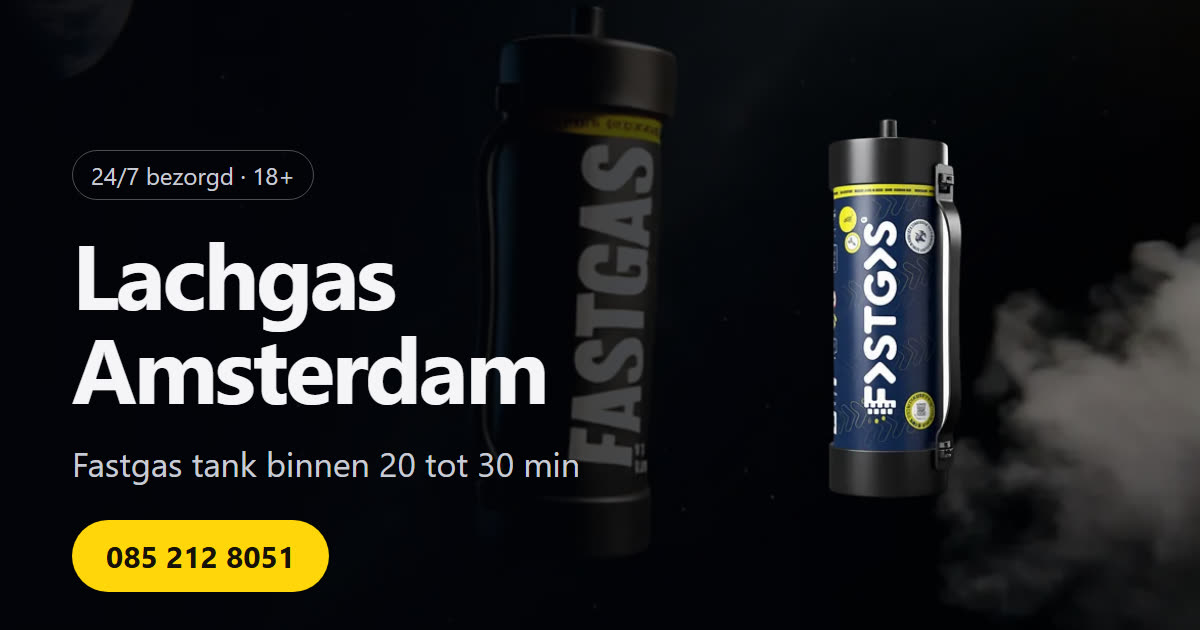
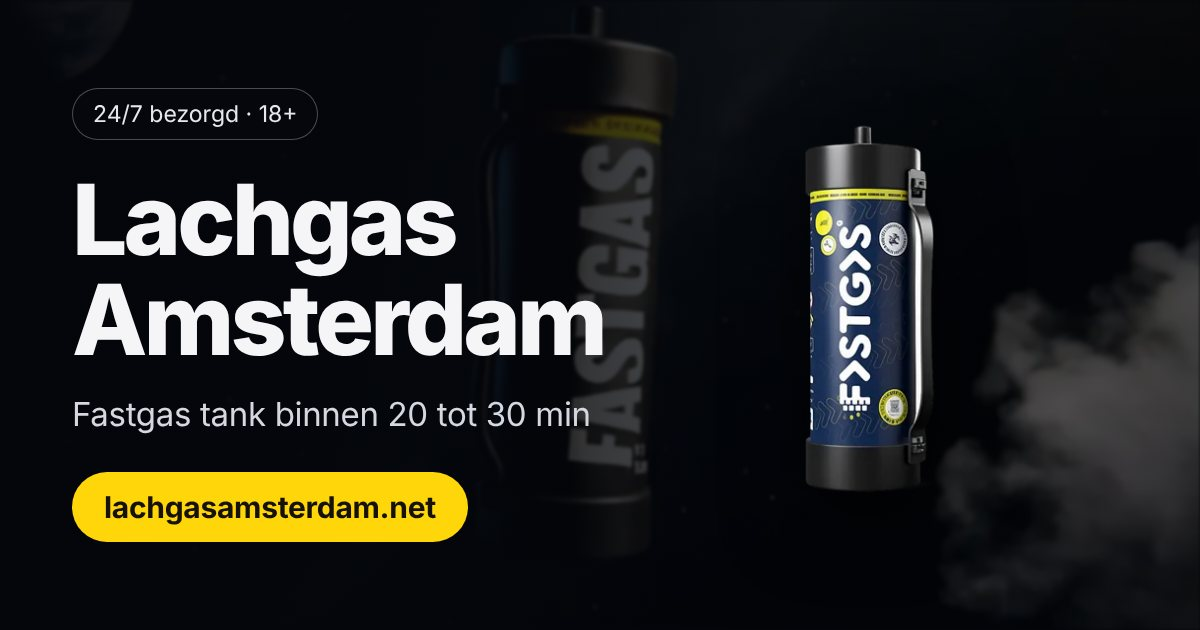
Nummers uit afbeelding en docs, indexering en merknaam aangescherpt
Telefoonnummers
- og.jpg (afbeelding bij gedeelde links) toonde nog een nummer; opnieuw
  gemaakt met de domeinnaam, via scripts/og.mjs (npm run og)
- nummers uit docs/seo-analyse verwijderd
- npm run seo faalt nu op elk nummer of elke tel:/wa.me-link in de build
  (tekst, attributen, JSON-LD, llms.txt, sitemap, manifest)

Indexering
- /404/ gaf status 200; postbuild laat alleen 404.html over
- overzichtspagina beschreef zichzelf in JSON-LD als de homepage
- favicon.ico was afgekapt; opnieuw gemaakt (16, 32, 48 px)
- llms.txt krijgt X-Robots-Tag: noindex
- seo-check controleert ook robots-meta, hreflang, robots.txt, 404,
  sitemapdatums en of elke pagina zichzelf beschrijft in JSON-LD
- site.verification: plek voor de Search Console- en Bing-code

Merknaam
- alternateName "Lachgasamsterdam" en "lachgasamsterdam.net" op WebSite
  en bedrijf; domeinnaam zichtbaar op home, over ons, footer, llms.txt
- titel contactpagina zonder dubbele merknaam

Overig
- dode CSS van de verwijderde bestelknoppen weg (1,8 KB per pagina)
- stappenlijst liep op 320 px uit beeld; H1 breekt niet meer in "20-30"
- npm start gebruikt serve.mjs, npm run check doet typecheck+build+seo

Claude-Session: https://claude.ai/code/session_01G9mGgcyCkZ15rNJvdmgaTz

diff --git a/app/globals.css b/app/globals.css
@@ -64,7 +64,6 @@ a:hover{text-decoration:none}
 .sheet-status>span:last-child{display:grid;gap:2px}
 .sheet-status strong{font-size:.95rem}
 .sheet-status small{font-size:.86rem;color:var(--ink2)}
-.sep{color:var(--mute);font-weight:400}
 .sh{margin:16px 0 4px;font-size:.78rem;font-weight:700;letter-spacing:.08em;text-transform:uppercase;color:var(--acc)}
 .mlist,.mtanks{list-style:none;margin:0;padding:0}
 .mlist{display:grid;gap:2px}
@@ -82,17 +81,11 @@ a:hover{text-decoration:none}
 .mtanks a:hover{border-color:rgba(255,214,10,.6)}
 .men{margin:22px 0 0;font-size:.9rem}
 .men a{color:var(--ink2)}
-.sheet-cta{flex:none;padding:12px 20px calc(14px + env(safe-area-inset-bottom));border-top:1px solid var(--line);background:rgba(4,6,11,.9)}
-.sheet-cta>*{width:100%;max-width:560px;margin-inline:auto}
-.sheet-cta .btn{display:flex}
-.sheet-cta p{margin:10px auto 0;text-align:center;font-size:.85rem;color:var(--mute)}
-.sheet-cta p .sep{margin:0 6px}
 html:has(.menu[open]){overflow:hidden}
 @media(max-width:399px){.mtxt{display:none}.menu summary{padding:0 6px}}
-.btn.hide-s{display:none}
-@media(min-width:900px){.links{display:flex}.menu{display:none}.btn.hide-s{display:inline-flex}}
+@media(min-width:900px){.links{display:flex}.menu{display:none}}
 
-/* knoppen: geel = bestellen (één kleur, één betekenis) */
+/* knoppen (inzoomscherm van de blueprint) */
 .btn{display:inline-flex;align-items:center;justify-content:center;gap:9px;min-height:48px;padding:0 24px;border-radius:999px;font:inherit;font-weight:650;text-decoration:none;border:1px solid transparent;transition:transform .15s,background-color .15s}
 .btn:active{transform:scale(.97)}
 .btn.pri{background:var(--acc);color:var(--acc-ink)}
@@ -100,7 +93,6 @@ html:has(.menu[open]){overflow:hidden}
 .btn.sec{background:rgba(255,255,255,.1);color:var(--ink);border-color:var(--line)}
 .btn.sec:hover{background:rgba(255,255,255,.18)}
 .btn.sm{min-height:44px;padding:0 18px}
-.cta{display:flex;flex-wrap:wrap;gap:12px;margin-top:26px}
 
 /* hero */
 .hero{padding:clamp(44px,9vw,110px) 0 clamp(32px,6vw,70px)}
@@ -108,6 +100,7 @@ html:has(.menu[open]){overflow:hidden}
 .kicker{display:inline-flex;align-items:center;gap:8px;margin:0 0 16px;padding:6px 14px;border-radius:999px;background:rgba(6,8,14,.72);border:1px solid var(--line);font-size:.85rem;color:var(--ink);letter-spacing:.02em}
 .dot{width:8px;height:8px;border-radius:50%;background:#34d399;box-shadow:0 0 0 4px rgba(52,211,153,.22)}
 h1{margin:0;font-size:clamp(2rem,10vw,4.6rem);line-height:1.04;letter-spacing:-.035em;font-weight:760;text-wrap:balance}
+.nb{white-space:nowrap}
 .hero.sub h1{font-size:clamp(2rem,5.6vw,3.4rem)}
 .lead{margin:18px 0 0;font-size:clamp(1.08rem,2.4vw,1.35rem);line-height:1.45;color:var(--ink2);max-width:46ch;text-wrap:pretty;text-shadow:0 1px 2px rgba(0,0,0,.6)}
 .chips{display:flex;flex-wrap:wrap;gap:8px;margin:26px 0 0;padding:0;list-style:none}
@@ -145,7 +138,7 @@ p{margin:0 0 14px;color:var(--ink2);text-wrap:pretty}
 .ticks li{position:relative;padding-left:30px;color:var(--ink2)}
 .ticks li::before{content:"";position:absolute;left:2px;top:.5em;width:12px;height:7px;border-left:2.5px solid var(--acc);border-bottom:2.5px solid var(--acc);transform:rotate(-45deg)}
 .steps{list-style:none;counter-reset:s;margin:0 0 18px;padding:0;display:grid;gap:14px}
-.steps li{counter-increment:s;display:grid;grid-template-columns:44px 1fr;column-gap:16px;padding:16px;border:1px solid var(--line);border-radius:14px;background:var(--card2)}
+.steps li{counter-increment:s;display:grid;grid-template-columns:44px minmax(0,1fr);column-gap:16px;overflow-wrap:anywhere;padding:16px;border:1px solid var(--line);border-radius:14px;background:var(--card2)}
 .steps li::before{content:counter(s);grid-row:span 2;width:40px;height:40px;border-radius:50%;background:var(--acc);color:var(--acc-ink);display:grid;place-content:center;font-weight:750}
 .steps strong{color:var(--ink);font-size:1.05rem}
 .steps span{color:var(--ink2)}
@@ -185,7 +178,6 @@ tr:last-child td{border-bottom:0}
 .places a:hover{border-color:rgba(255,214,10,.6)}
 .big{font-size:clamp(1.9rem,5vw,3rem);font-weight:760;letter-spacing:-.03em;line-height:1.08}
 .final{text-align:center}
-.final .cta{justify-content:center}
 .final p{margin-inline:auto;max-width:52ch}
 
 /* footer */
@@ -205,25 +197,10 @@ tr:last-child td{border-bottom:0}
 .fbot p{color:var(--mute);margin:0 0 8px}
 .fbot a{color:var(--ink2)}
 
-/* zwevende WhatsApp-knop (WhatsApp-groen met wit logo) */
-.wa-float{position:fixed;right:max(16px,env(safe-area-inset-right));bottom:calc(20px + env(safe-area-inset-bottom));z-index:45;display:grid;place-items:center;width:60px;height:60px;border-radius:50%;background:#25d366;color:#fff;box-shadow:0 8px 24px rgba(0,0,0,.5),0 0 0 3px rgba(255,255,255,.14);transition:transform .15s,box-shadow .15s}
-.wa-float:hover{transform:translateY(-2px) scale(1.06);box-shadow:0 12px 28px rgba(0,0,0,.55),0 0 0 3px rgba(255,255,255,.28)}
-.wa-float:active{transform:scale(.95)}
-.wa-float:focus-visible{outline:3px solid var(--acc);outline-offset:4px}
-@media(max-width:759px){.wa-float{display:none}}
-
-/* mobiele vaste knoppenbalk */
-.sticky{position:fixed;left:0;right:0;bottom:0;z-index:40;display:flex;gap:10px;padding:10px 16px calc(10px + env(safe-area-inset-bottom));background:rgba(6,8,14,.92);border-top:1px solid var(--line)}
-.sticky .btn{flex:1}
-.sticky .btn.pri{flex:2}
-@media(min-width:760px){.sticky{display:none}}
-@supports(animation-timeline:scroll()){@media(max-width:759px){.sticky{animation:bar-in linear both;animation-timeline:scroll(root block);animation-range:240px 420px}}}
-@keyframes bar-in{from{transform:translateY(110%)}to{transform:none}}
-
 @media(prefers-reduced-motion:reduce){html{scroll-behavior:auto}*{transition:none!important;animation:none!important}.bg video{display:none}}
 @media(prefers-reduced-transparency:reduce){.nav::before{backdrop-filter:none;-webkit-backdrop-filter:none;background:#06080e}}
 @media(prefers-contrast:more){:root{--line:rgba(255,255,255,.4);--ink2:#fff;--mute:#e0e3ea}}
-@media print{.bg,.nav,.sticky,.cta,.wa-float{display:none}body{background:#fff;color:#000}p,li{color:#000}}
+@media print{.bg,.nav{display:none}body{background:#fff;color:#000}p,li{color:#000}}
 
 /* blueprint + inzoomscherm (zonder JavaScript) */
 .bp{position:relative}

diff --git a/lib/schema.ts b/lib/schema.ts
@@ -27,14 +27,14 @@ export const business = {
   '@type': 'LocalBusiness',
   '@id': abs('/#business'),
   name: site.name,
-  alternateName: ['Lachgaskoerier Amsterdam', 'Lachgas Amsterdam bezorgdienst'],
+  alternateName: [...site.alternateNames, 'Lachgaskoerier Amsterdam', 'Lachgas Amsterdam bezorgdienst'],
   slogan: 'Fastgas tank bezorgd, 24/7, binnen 20 tot 30 minuten',
   knowsAbout: ['Lachgas (distikstofmonoxide, N2O)', 'Slagroomspuiten en slagroompatronen', 'Veilige opslag en transport van gastanks', 'Opiumwet en lachgas'],
   description:
     'Bezorgdienst voor de originele Fastgas Wegwerp Tank (2KG, 4KG en 10KG) in Amsterdam en omstreken. 24/7 bereikbaar, betalen bij aflevering met PIN, Tikkie of contant. Alleen 18+ en voor toegestaan gebruik.',
   url: abs('/'),
   logo: abs('/icon-512.png'),
-  image: abs('/og.jpg'),
+  image: abs(site.ogImage),
   currenciesAccepted: 'EUR',
   paymentAccepted: 'Cash, Debit Card, Tikkie',
   address: { '@type': 'PostalAddress', addressLocality: 'Amsterdam', addressRegion: 'Noord-Holland', addressCountry: 'NL' },
@@ -47,6 +47,8 @@ export const websiteNode = {
   '@id': abs('/#website'),
   url: abs('/'),
   name: site.name,
+  /* Google leidt de sitenaam in de zoekresultaten af van name en alternateName op de homepage. */
+  alternateName: site.alternateNames,
   inLanguage: 'nl-NL',
   publisher: { '@id': abs('/#business') },
 };
@@ -64,8 +66,11 @@ export function crumbs(items: { name: string; path: string }[]) {
   };
 }
 
-export function graph(page: Page | null, trail: { name: string; path: string }[], faq?: Faq[], home?: string) {
-  const path = page ? `/${page.slug}/` : '/';
+/* `page` is null voor pagina's buiten lib/content (home, overzicht): pad en naam komen dan uit het laatste kruimel,
+   `desc` is de omschrijving van die pagina. */
+export function graph(page: Page | null, trail: { name: string; path: string }[], faq?: Faq[], desc?: string) {
+  const last = trail[trail.length - 1];
+  const path = page ? `/${page.slug}/` : last.path;
   const en = page?.lang === 'en';
   const updated = page ? (page.updated ?? site.contentDate) : site.lastmod;
   const published = page?.published ?? site.published;
@@ -75,11 +80,11 @@ export function graph(page: Page | null, trail: { name: string; path: string }[]
     '@type': webType,
     '@id': abs(path) + '#webpage',
     url: abs(path),
-    name: page ? page.h1 : site.name,
-    description: page ? page.desc : (home ?? undefined),
+    name: page ? page.h1 : path === '/' ? site.name : last.name,
+    description: page ? page.desc : desc,
     inLanguage: en ? 'en' : 'nl-NL',
     isPartOf: { '@id': abs('/#website') },
-    primaryImageOfPage: { '@type': 'ImageObject', url: abs(page?.img?.src ?? '/og.jpg') },
+    primaryImageOfPage: { '@type': 'ImageObject', url: abs(page?.img?.src ?? site.ogImage) },
     about: { '@id': abs('/#business') },
     ...(webType === 'ContactPage' ? { mainEntity: { '@id': abs('/#business') } } : {}),
     datePublished: published,
@@ -141,7 +146,7 @@ export function graph(page: Page | null, trail: { name: string; path: string }[]
       headline: page.h1,
       description: page.desc,
       inLanguage: en ? 'en' : 'nl-NL',
-      image: abs(page.img?.src ?? '/og.jpg'),
+      image: abs(page.img?.src ?? site.ogImage),
       dateModified: updated,
       datePublished: published,
       author: { '@id': abs('/#business') },

diff --git a/app/page.tsx b/app/page.tsx
@@ -15,7 +15,7 @@ export const metadata: Metadata = pageMeta({
 });
 
 const faq: Faq[] = [
-  { q: 'Wat is Lachgas Amsterdam?', a: 'Lachgas Amsterdam is een bezorgdienst voor de originele Fastgas Wegwerp Tank (2KG, 4KG en 10KG) in Amsterdam en omstreken. Je bestelt via WhatsApp, wij bevestigen prijs en tijd en je betaalt bij aflevering. We leveren alleen aan 18+ en alleen voor toegestaan gebruik. Lees meer [over ons](/over-ons/).' },
+  { q: 'Wat is Lachgas Amsterdam?', a: `Lachgas Amsterdam, online te vinden op ${site.domain}, is een bezorgdienst voor de originele Fastgas Wegwerp Tank (2KG, 4KG en 10KG) in Amsterdam en omstreken. Je bestelt via WhatsApp, wij bevestigen prijs en tijd en je betaalt bij aflevering. We leveren alleen aan 18+ en alleen voor toegestaan gebruik. Lees meer [over ons](/over-ons/).` },
   { q: 'Waar kan ik lachgas in Amsterdam bestellen?', a: 'Bij ons, via WhatsApp, voor levering in alle stadsdelen van Amsterdam en de regio. Er is geen winkel of afhaalpunt: de koerier komt naar je toe. Hoe je bestelt staat op [lachgas bestellen in Amsterdam](/lachgas-bestellen-amsterdam/); op [Amsterdam per stadsdeel](/lachgas-amsterdam/) staan de stadsdelen en de verwachte levertijd.' },
   { q: 'Hoe snel bezorgen jullie lachgas in Amsterdam?', a: 'Gemiddeld staat onze koerier binnen 20 tot 30 minuten voor de deur, dag en nacht. Buiten Amsterdam hoor je op de pagina van je plaats wat de verwachte tijd is. Bij je bestelling bevestigen we altijd de aankomsttijd.' },
   { q: 'Kan ik bij aflevering betalen?', a: 'Ja. Je betaalt de koerier bij aflevering met PIN, Tikkie of contant. Vooraf betalen of een account aanmaken is niet nodig, en de totaalprijs hoor je al voordat de koerier vertrekt.' },
@@ -46,7 +46,7 @@ export default function Home() {
           <div className="row two">
             <div>
           <p className="kicker"><span className="dot" aria-hidden="true" />De lachgaskoerier van Amsterdam</p>
-          <h1>Lachgas Amsterdam.<br />Binnen {site.etaShort.replace(' ', '\u00a0')}.</h1>
+          <h1>Lachgas Amsterdam.<br />Binnen <span className="nb">{site.etaShort}.</span></h1>
           <p className="lead">
             De Fastgas Wegwerp Tank, verzegeld en 24/7 bezorgd in Amsterdam en omstreken. Bestel via WhatsApp en betaal bij aflevering.
           </p>
@@ -66,7 +66,7 @@ export default function Home() {
         <section className="panel narrow" aria-labelledby="intro-h">
           <h2 id="intro-h">Lachgas Amsterdam: bestellen en laten bezorgen</h2>
           <p>
-            <Rich text="**Lachgas Amsterdam** is een bezorgdienst voor één product: de originele Fastgas Wegwerp Tank. Je bestelt via WhatsApp, wij bevestigen prijs en aankomsttijd, en de koerier brengt de verzegelde tank naar je adres in Amsterdam of de regio. Je betaalt pas bij aflevering." />
+            <Rich text={`**Lachgas Amsterdam** (${site.domain}) is een bezorgdienst voor één product: de originele Fastgas Wegwerp Tank. Je bestelt via WhatsApp, wij bevestigen prijs en aankomsttijd, en de koerier brengt de verzegelde tank naar je adres in Amsterdam of de regio. Je betaalt pas bij aflevering.`} />
           </p>
           <h3>Lachgas Amsterdam in het kort</h3>
           <ul className="ticks">

diff --git a/lib/content/services.ts b/lib/content/services.ts
@@ -66,7 +66,7 @@ export const services: Page[] = [
     related: ['lachgas-bestellen-amsterdam', 'lachgas-tanks', 'lachgas-prijs', 'bestellen', 'is-lachgas-verboden', 'fastgas'],
   },
   {
-    slug: 'lachgas-bestellen-amsterdam', group: 'service', kind: 'service', nav: 'Lachgas bestellen Amsterdam', parent: 'home', updated: '2026-11-13',
+    slug: 'lachgas-bestellen-amsterdam', group: 'service', kind: 'service', nav: 'Lachgas bestellen Amsterdam', parent: 'home', updated: '2026-11-14',
     title: 'Lachgas bestellen in Amsterdam, 24/7',
     desc: 'Lachgas bestellen in Amsterdam: stuur een WhatsApp, kies 2KG, 4KG of 10KG en betaal bij aflevering. 24/7 bezorgd binnen 20 tot 30 minuten.',
     h1: 'Lachgas bestellen in Amsterdam', kicker: 'Bestellen zonder account',
@@ -108,8 +108,8 @@ export const services: Page[] = [
       { t: 'h2', x: 'Wat gebeurt er na je bericht?' },
       { t: 'p', x: 'Wij reageren met de totaalprijs en de verwachte aankomsttijd. Pas als jij akkoord bent, vertrekt de koerier. Onderweg kan hij je bellen of appen als er iets onduidelijk is aan het adres.' },
       { t: 'p', x: 'Bij de deur controleert hij op verzoek je legitimatie, overhandigt hij de verzegelde tank en neemt hij de betaling aan. Hoe dat in zijn werk gaat lees je bij [de lachgaskoerier](/lachgas-koerier/).' },
-      { t: 'h2', x: 'Lachgas bestellen via één nummer' },
-      { t: 'p', x: 'Bestellen gaat uitsluitend via WhatsApp. We reageren dag en nacht. Het is altijd dezelfde procedure: je geeft adres, formaat en gebruik door en je hoort prijs en aankomsttijd. Alle contactmogelijkheden staan op de [contactpagina](/contact/).' },
+      { t: 'h2', x: 'Lachgas bestellen: één vaste werkwijze' },
+      { t: 'p', x: 'Bestellen gaat uitsluitend via WhatsApp. We reageren dag en nacht. Het is altijd dezelfde procedure: je geeft adres, formaat en gebruik door en je hoort prijs en aankomsttijd. Meer over hoe je ons bereikt staat op de [contactpagina](/contact/).' },
       { t: 'h2', x: 'Zakelijk bestellen in Amsterdam' },
       { t: 'p', x: 'Restaurants, bars en cateraars bestellen op dezelfde manier, met een vast ontvangstpunt en eventueel een terugkerende levering. Meer daarover op [lachgas voor horeca](/lachgas-horeca/). Voor bezorging tijdens kantooruren is er [overdag bestellen](/overdag-bestellen/); buiten kantooruren kijk je bij [nachtlevering](/lachgas-nachtlevering/).' },
       { t: 'h2', x: 'Welk formaat kies je bij je eerste bestelling?' },

diff --git a/lib/content/info.ts b/lib/content/info.ts
@@ -570,14 +570,14 @@ export const info: Page[] = [
     related: ['bestellen', 'lachgas-informatie', 'bezorggebied', 'contact', 'lachgas-tanks', 'is-lachgas-verboden'],
   },
   {
-    slug: 'over-ons', group: 'hub', kind: 'article', nav: 'Over ons', parent: 'home', updated: '2026-11-13',
+    slug: 'over-ons', group: 'hub', kind: 'article', nav: 'Over ons', parent: 'home', updated: '2026-11-14',
     title: 'Over Lachgas Amsterdam: onze werkwijze',
     desc: 'Over Lachgas Amsterdam: een bezorgdienst voor de originele Fastgas Wegwerp Tank in Amsterdam en regio. Zo werken we en dit zijn onze regels.',
     h1: 'Over Lachgas Amsterdam', kicker: 'Wie we zijn',
     lead: 'Lachgas Amsterdam is een bezorgdienst voor de originele Fastgas Wegwerp Tank. We werken in Amsterdam en een groot deel van de regio, met duidelijke afspraken over leeftijd en gebruik.',
     blocks: [
       { t: 'h2', x: 'Wie is Lachgas Amsterdam?' },
-      { t: 'p', x: '[Lachgas Amsterdam](/) is een bezorgdienst, geen winkel. Je bestelt via WhatsApp en onze koerier brengt de tank naar je adres. We leveren de [Fastgas Wegwerp Tank](/lachgas-tanks/) in 2KG, 4KG en 10KG, verzegeld en met een label.' },
+      { t: 'p', x: '[Lachgas Amsterdam](/) is een bezorgdienst, geen winkel. Onze website is lachgasamsterdam.net. Je bestelt via WhatsApp en onze koerier brengt de tank naar je adres. We leveren de [Fastgas Wegwerp Tank](/lachgas-tanks/) in 2KG, 4KG en 10KG, verzegeld en met een label.' },
       { t: 'p', x: 'We zijn dag en nacht bereikbaar en bezorgen in alle stadsdelen van [Amsterdam](/lachgas-amsterdam/) en in een groot deel van de regio. Over het product zelf lees je meer op [Fastgas uitgelegd](/fastgas/).' },
       { t: 'h2', x: 'Onze uitgangspunten' },
       { t: 'ul', x: [

diff --git a/lib/site.ts b/lib/site.ts
@@ -4,8 +4,16 @@ export const site = {
   brand: 'Fastgas',
   url: 'https://www.lachgasamsterdam.net',
   host: 'www.lachgasamsterdam.net',
+  /** domeinnaam zoals bezoekers hem intypen; staat zichtbaar op home, over ons, footer en deel-afbeelding */
+  domain: 'lachgasamsterdam.net',
+  /** schrijfwijzen van de merknaam waarop mensen zoeken (schema.org alternateName van WebSite en bedrijf) */
+  alternateNames: ['Lachgasamsterdam', 'lachgasamsterdam.net'],
+  /** deel-afbeelding (Open Graph, schema.org); opnieuw maken met `npm run og` */
+  ogImage: '/og.jpg',
+  /** verificatiecodes van Search Console en Bing Webmaster Tools (alleen de code uit de meta-tag); leeg = geen tag */
+  verification: { google: '', bing: '' },
   /** datum van de site als geheel (home, overzicht, sitemap-fallback) */
-  lastmod: '2026-11-13',
+  lastmod: '2026-11-14',
   /** eerste publicatie van de site */
   published: '2026-10-29',
   /** fallback 'bijgewerkt'-datum voor subpagina's zonder eigen `updated` */

diff --git a/lib/content/hubs.ts b/lib/content/hubs.ts
@@ -128,8 +128,8 @@ export const hubs: Page[] = [
     related: ['lachgas-amsterdam', 'lachgas-in-de-buurt', 'lachgas-bezorgen', 'bestellen', 'lachgas-24-7', 'contact'],
   },
   {
-    slug: 'contact', group: 'hub', nav: 'Contact', parent: 'home', updated: '2026-11-13',
-    title: 'Contact: WhatsApp Lachgas Amsterdam',
+    slug: 'contact', group: 'hub', nav: 'Contact', parent: 'home', absolute: true, updated: '2026-11-14',
+    title: 'Contact met Lachgas Amsterdam: dag en nacht bereikbaar',
     desc: 'Contact met Lachgas Amsterdam: stuur ons een WhatsApp-bericht met je vraag of bestelling. Dag en nacht bereikbaar, ook in het weekend en op feestdagen.',
     h1: 'Contact met Lachgas Amsterdam', kicker: 'Dag en nacht bereikbaar',
     lead: 'Bestellen of een vraag? Stuur Lachgas Amsterdam een WhatsApp-bericht. We reageren dag en nacht.',

diff --git a/lib/meta.ts b/lib/meta.ts
@@ -1,7 +1,7 @@
 import type { Metadata } from 'next';
 import { site } from './site';
 
-const og = [{ url: '/og.jpg', width: 1200, height: 630, alt: 'Lachgas Amsterdam: Fastgas Wegwerp Tank bezorgd, 24/7' }];
+const og = [{ url: site.ogImage, width: 1200, height: 630, alt: 'Lachgas Amsterdam: Fastgas Wegwerp Tank bezorgd, 24/7' }];
 
 type Opts = {
   title: string;
@@ -34,7 +34,7 @@ export function pageMeta(opts: Opts): Metadata {
       images: og,
       ...(opts.article ? { modifiedTime: opts.modified ?? site.lastmod } : {}),
     },
-    twitter: { card: 'summary_large_image', title: full, description: opts.description, images: ['/og.jpg'] },
+    twitter: { card: 'summary_large_image', title: full, description: opts.description, images: [site.ogImage] },
   };
 }
 

diff --git a/components/ui.tsx b/components/ui.tsx
@@ -285,7 +285,7 @@ export function Footer() {
       </div>
       <div className="wrap fbot">
         <p>Levering uitsluitend aan 18+ en uitsluitend voor toegestaan gebruik. Lachgas valt onder de Opiumwet; zie de <a href="/is-lachgas-verboden/">wettelijke status</a>.</p>
-        <p>&copy; 2026 {site.name} &middot; <a href="/privacy-en-cookies/">Privacy en cookies</a> &middot; <a href="/algemene-voorwaarden/">Algemene voorwaarden</a></p>
+        <p>&copy; {site.lastmod.slice(0, 4)} {site.name} &middot; {site.domain} &middot; <a href="/privacy-en-cookies/">Privacy en cookies</a> &middot; <a href="/algemene-voorwaarden/">Algemene voorwaarden</a></p>
       </div>
     </footer>
   );

diff --git a/app/not-found.tsx b/app/not-found.tsx
@@ -1,4 +1,3 @@
-
 export const metadata = { title: 'Pagina niet gevonden | Lachgas Amsterdam', robots: { index: false, follow: true } };
 
 export default function NotFound() {
@@ -7,7 +6,7 @@ export default function NotFound() {
       <div className="wrap">
         <h1>Deze pagina bestaat niet</h1>
         <p className="lead">
-          De pagina die je zoekt is verplaatst of bestaat niet meer. Ga naar de <a href="/">homepage</a>, bekijk het{' '}
+          De pagina die je zoekt is verplaatst of bestaat niet meer. Ga naar de <a href="/">homepage</a> of bekijk het{' '}
           <a href="/bezorggebied/">bezorggebied</a>.
         </p>
         <ul className="places">

diff --git a/app/layout.tsx b/app/layout.tsx
@@ -10,6 +10,10 @@ export const metadata: Metadata = {
   applicationName: site.name,
   robots: { index: true, follow: true, 'max-image-preview': 'large', 'max-snippet': -1, 'max-video-preview': -1 },
   formatDetection: { telephone: false, email: false, address: false },
+  verification: {
+    ...(site.verification.google ? { google: site.verification.google } : {}),
+    ...(site.verification.bing ? { other: { 'msvalidate.01': site.verification.bing } } : {}),
+  },
   openGraph: { type: 'website', locale: 'nl_NL', siteName: site.name, images: defaultOg },
 };
 

diff --git a/docs/seo-analyse-2026-11.md b/docs/seo-analyse-2026-11.md
@@ -13,7 +13,7 @@ Doel: beter ranken dan lachgasamsterdam247.nl voor "lachgas amsterdam" en varian
 | Lighthouse mobiel | 100 / 96 / 100 / 100 | 56 / 96 / 75 / 100 |
 | LCP mobiel | 1,4 s | 9,4 s |
 | Gewicht homepage | 855 KiB | 3,2 MiB (2,3 MiB te besparen met moderne afbeeldingsformaten) |
-| Contact | WhatsApp +31 97 010 270 187 | WhatsApp 06 26 76 66 30 |
+| Contact | geen telefoonnummer op de site (sinds 13 november 2026) | een 06-nummer op elke pagina |
 | Reviews | geen | vier verzonnen testimonials met demo-afbeeldingen uit het thema |
 | Framing | keuken, horeca, techniek; 18+; Opiumwet uitgelegd | "feest of privégebruik", "discretie voorop" |
 | Domein actief sinds | eind oktober 2026 | november 2025 |
@@ -41,8 +41,8 @@ Let op: lachgasamsterdam.nl is een andere aanbieder met een vergelijkbare URL-st
 2. **IndexNow.** Na elke deploy met gewijzigde inhoud: `npm run build && npm run indexnow`. Dit meldt alle URL's bij Bing, Yandex, Seznam en Naver (Google doet niet mee). Het sleutelbestand staat al op de site.
 3. **Bing Webmaster Tools.** Importeer de Search Console-property; Bing levert ook DuckDuckGo en de AI-zoekmachines.
 4. **Duplicaten.** Binnen de site is de overlap tussen locatiepagina's teruggebracht (de identieke staart met bestelstappen en twee algemene FAQ's is vervangen door één plaatsspecifieke alinea) en `/lachgas-tank-bestellen/` deelt geen blokken meer met `/bestellen/`. Naar buiten toe: deze site deelt geen teksten, nummer of naam met andere websites. Houd dat zo.
-5. **Nederlands nummer.** Sinds 9 november 2026 staat overal het eigen WhatsApp-nummer +31 97 010 270 187 (daarvoor een +44-nummer, wat voor een Amsterdamse bezorgdienst een vertrouwenssignaal in het nadeel was). Gebruik dit nummer uitsluitend voor lachgasamsterdam.net en zet het identiek in het Google Bedrijfsprofiel.
-6. **Google Bedrijfsprofiel.** Een profiel als "bezorgdienst zonder bezoekadres" (service area business) met Amsterdam en de 15 plaatsen als werkgebied, de website-URL en openingstijden 24/7. Echte reviews daar wegen zwaarder dan wat dan ook op de site.
+5. **Geen telefoonnummer.** Op verzoek van de eigenaar staat er sinds 13 november 2026 nergens een telefoon- of WhatsApp-nummer: niet in de teksten, niet in schema.org, niet in `llms.txt` en sinds 14 november ook niet meer in de deel-afbeelding (`og.jpg`). `npm run seo` faalt zodra er weer een nummer of een `tel:`-/`wa.me`-link in de build staat. Gevolg voor SEO en omzet: zie hoofdstuk 6.
+6. **Google Bedrijfsprofiel.** Een profiel als "bezorgdienst zonder bezoekadres" (service area business) met Amsterdam en de 15 plaatsen als werkgebied, de website-URL en openingstijden 24/7. Echte reviews daar wegen zwaarder dan wat dan ook op de site. Google vraagt voor zo'n profiel wel een verifieerbaar contactkanaal.
 7. **Backlinks.** Bedrijfsgidsen (Telefoonboek, Cylex, Openingstijden.nl), een KvK-vermelding als het bedrijf is ingeschreven, en lokale vermeldingen (leveranciersoverzichten voor horeca). Geen gekochte links en geen links vanaf andere lachgassites.
 8. **Geduld en vers houden.** De site is twee weken oud. Werk `lastmod` bij als inhoud verandert, voeg maandelijks een of twee pagina's toe (bijvoorbeeld plaatsen die de concurrent wel heeft: Naarden, Bussum, Uithoorn, Aalsmeer, Zaandijk) en houd de FAQ's actueel.
 
@@ -73,3 +73,35 @@ Zeven onafhankelijke audits (on-page, schema, techniek, content, interne links, 
 - Horeca-factuur: vijf pagina's zeggen "vraag na bij je eerste bestelling". Leg de echte werkwijze vast (factuur met btw ja/nee, per levering of maandelijks) en zet dat ene antwoord op alle vijf plekken.
 - Extra plaatsen (Naarden, Bussum, Muiden) alleen toevoegen als je er echt bezorgt; één object in `lib/content/locations.ts` volstaat.
 - Footer met 57 links is bewust gelaten: voor een nieuwe site helpen de sitebrede links de locatiepagina's gecrawld te krijgen. Heroverweeg na indexatie.
+
+## 6. Ronde 14 november 2026: nummers, indexering, merknaam
+
+Aanleiding: de site moet zonder enig telefoonnummer live staan, foutloos indexeren in Search Console en gevonden worden op de eigen naam ("lachgasamsterdam", de domeinnaam zonder .net).
+
+**Telefoonnummers.** De site zelf was al schoon, maar er stonden nog nummers op plekken die een tekstzoekopdracht niet vindt:
+
+- `public/og.jpg` (de afbeelding bij gedeelde links in WhatsApp en op sociale media) toonde een 085-nummer in een gele knop. De afbeelding is opnieuw gemaakt met de domeinnaam op die plek. Ze komt nu uit `scripts/og.mjs` (`npm run og`), zodat de tekst erop voortaan in de code staat en doorzoekbaar is.
+- Dit document noemde het oude eigen nummer en het nummer van een concurrent; beide zijn weggehaald.
+- De commitgeschiedenis op GitHub bevat de oude nummers nog in commitberichten en oude versies van bestanden. Dat is alleen zichtbaar voor wie toegang tot de repository heeft en staat niet op de website.
+- Controle: alle afbeeldingen zijn bekeken, van de achtergrondvideo twintig beelden verspreid over de volle vijf seconden, en de metadata van alle bestanden is doorzocht. `npm run seo` controleert nu elke pagina (tekst, attributen, JSON-LD) en elk tekstbestand in `out/` op nummers en bel-/WhatsApp-links en geeft dan een fout.
+- Het alarmnummer 112 in de veiligheidsteksten is bewust blijven staan.
+
+**Indexering.** Vergelijking van de live site met de build op 14 november: alle 63 URL's uit de sitemap geven status 200, verwijzen met hun canonical naar zichzelf, hebben `index, follow` en zijn byte voor byte gelijk aan de build. Redirects kloppen (http naar https, zonder www naar www, zonder slash naar met slash), onbekende URL's geven een echte 404. Geen enkele pagina is ooit hernoemd of verwijderd, dus er zijn geen oude URL's die een 404 geven. Wat wel is aangepast:
+
+- `/404/` gaf status 200 (een kopie van de foutpagina die Next.js meelevert). Postbuild verwijdert die map nu, zodat alleen de echte 404 overblijft.
+- `favicon.ico` was een beschadigd bestand (afgekapt, strikte lezers konden het niet openen). Het is opnieuw gemaakt in 16, 32 en 48 pixels.
+- `llms.txt` krijgt de header `X-Robots-Tag: noindex`, zodat het tekstbestand niet als los zoekresultaat in Google kan komen.
+- De SEO-check controleert nu ook de robots-meta per pagina, hreflang (zelfverwijzing, x-default, wederkerigheid), `robots.txt`, de 404-pagina en datums in de sitemap.
+- In `lib/site.ts` staat `verification` klaar: vul daar de code van Search Console (en eventueel Bing) in als je via een HTML-tag wilt verifiëren in plaats van via DNS.
+
+Wat Search Console normaal laat zien en geen fout is: "Pagina met omleiding" voor de varianten met http, zonder www en zonder slash aan het eind; "Alternatieve pagina met correcte canonieke tag" voor URL's met een parameter erachter; en in het videorapport de melding dat de video niet de hoofdinhoud is (dat is de decoratieve achtergrondvideo).
+
+**Merknaam.** Voor de zoekopdracht op de domeinnaam telt vooral dat de homepage geïndexeerd is en dat Google de schrijfwijze aan de site koppelt:
+
+- `WebSite` en het bedrijf in schema.org hebben nu `alternateName` "Lachgasamsterdam" en "lachgasamsterdam.net" (Google leidt daar de sitenaam in de zoekresultaten van af).
+- De domeinnaam staat zichtbaar in de eerste alinea en het eerste FAQ-antwoord van de homepage, op Over ons, in de footer van elke pagina, in `llms.txt` en op de deel-afbeelding.
+- De titel van de contactpagina bevatte de merknaam twee keer en is ingekort.
+
+**Wat code niet oplost.** Er bestaat een oudere site op de .nl-variant van dezelfde naam, met reviews en een jaar voorsprong. Bovenaan komen op "lachgasamsterdam" lukt daarom alleen met de acties uit hoofdstuk 3: de property in Search Console, de sitemap indienen, indexering aanvragen voor de homepage en de vijf belangrijkste pagina's, en een paar echte vermeldingen op andere websites. Reken op dagen tot enkele weken voor indexering en langer voor de eerste plek.
+
+**Gevolg van een site zonder contactkanaal.** Overal staat "bestel via WhatsApp", maar er is geen nummer, link of formulier. Een bezoeker kan dus niet bestellen, en een commerciële site zonder contactgegevens of bedrijfsidentiteit scoort bij Google slechter op betrouwbaarheid. Als het nummer bewust weg moet, overweeg dan een ander kanaal (bijvoorbeeld een e-mailadres of formulier) en zet dat op `/contact/`.
